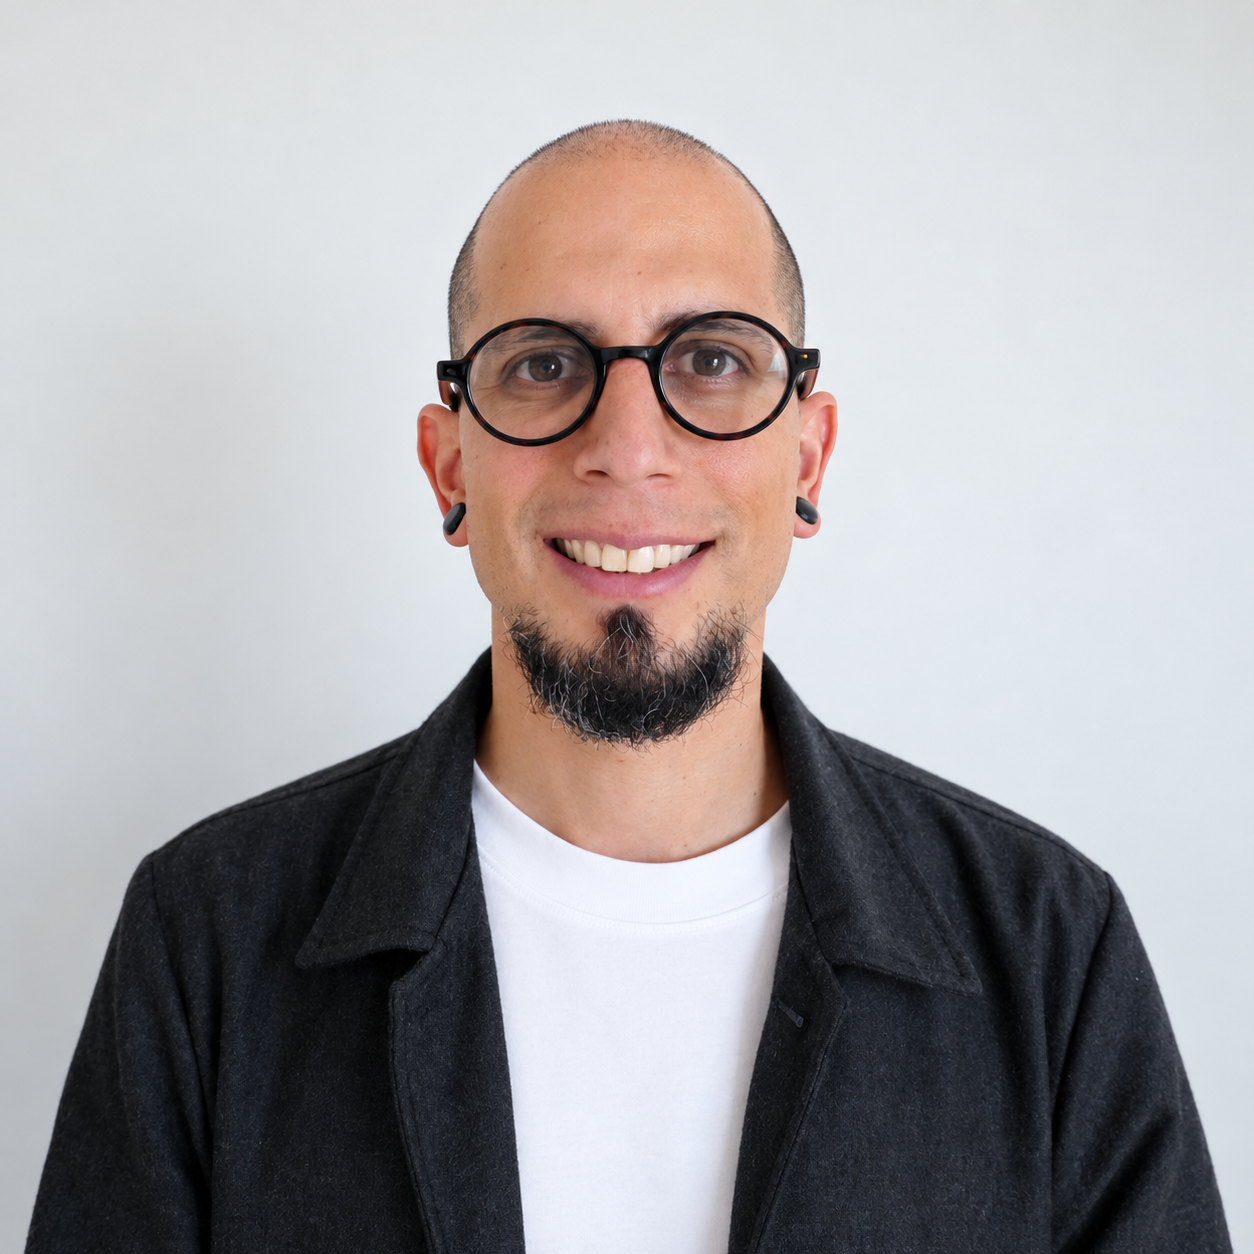
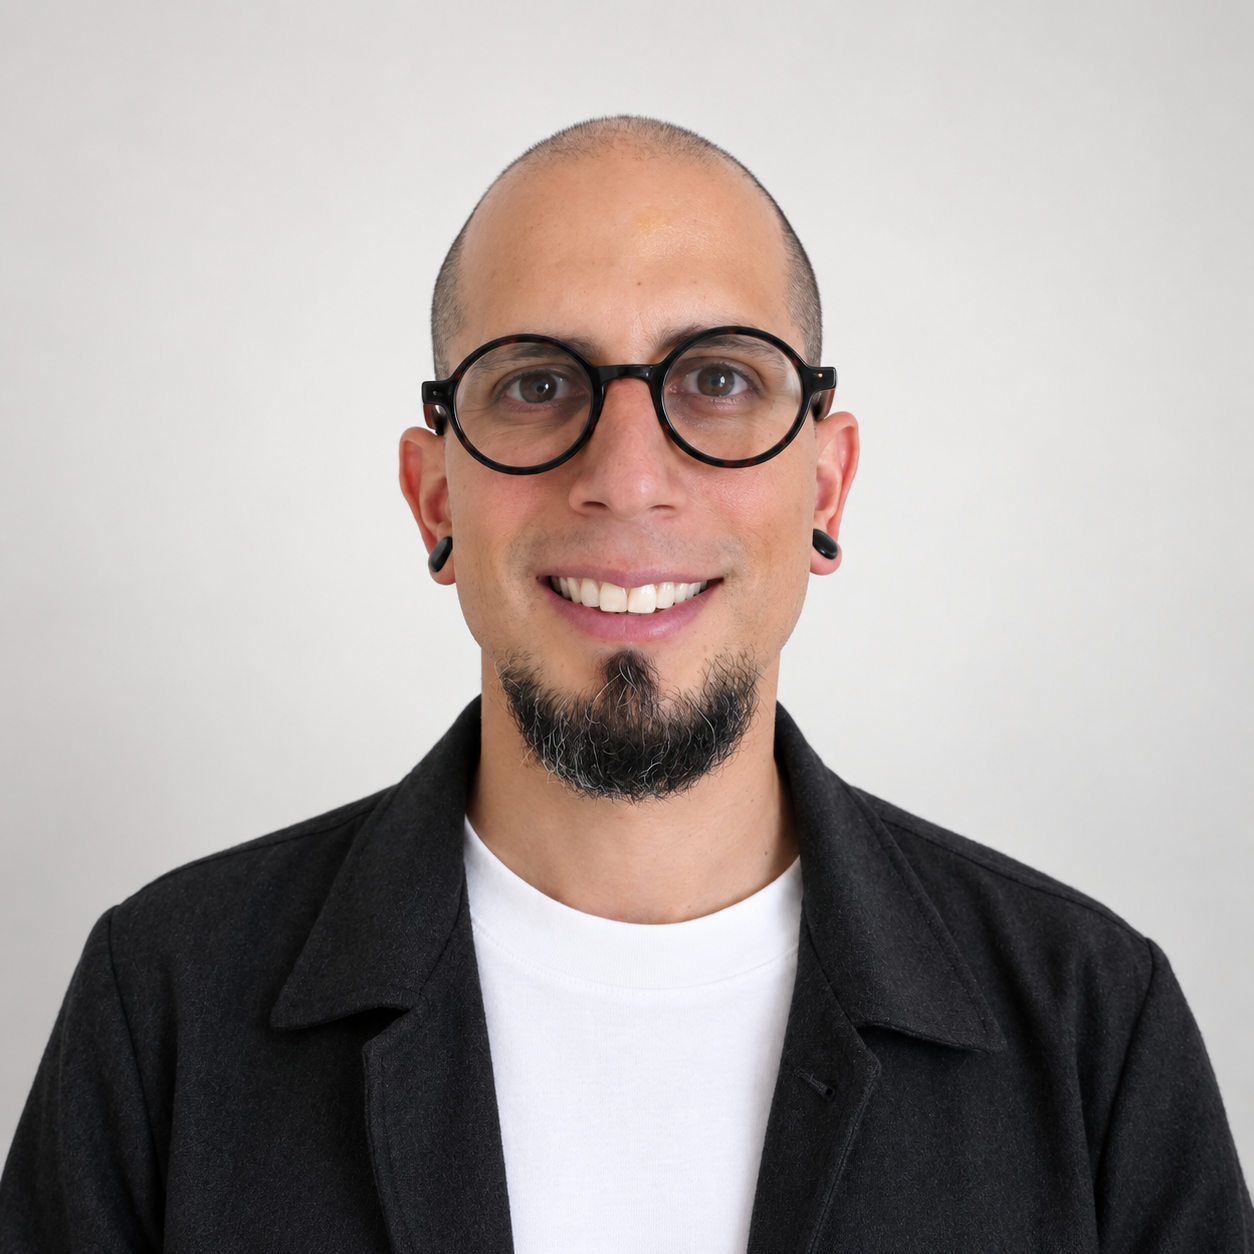
fix partial commit

diff --git a/layouts/_default/baseof.html b/layouts/_default/baseof.html
@@ -5,6 +5,7 @@
         <meta name=author content="{{ .Params.Author }}">
         <meta name="google-site-verification" content="2acTKqBrfBSXaKKpgEKGkM4bau9WaahA5kT3pJOUMk8" />
         <title>{{ block "title" . }}{{ if .IsHome }}{{ .Site.Title }}{{ else }}{{ .Title }} — {{ .Site.Home.Title }}{{ end }}{{ end }}</title>
+        <script src="/js/theme.js"></script>
         <link rel="stylesheet" href="/css/style.css">
         <!-- Enable responsiveness on mobile devices -->
         <meta name="viewport" content="width=device-width, initial-scale=1.0">
@@ -25,9 +26,21 @@
                     <li><a href="{{ .URL }}"{{ if eq $.RelPermalink .URL }} aria-current="page"{{ end }}>{{ .Name }}</a></li>
                     {{ end }}
                 </ul>
+                <div class="navigation-tools">
                 {{ range .Translations }}
                 <span id="language-switcher"><a href="{{ .RelPermalink }}" lang="{{ .Language.Lang }}" hreflang="{{ .Language.Lang }}" aria-label="{{ if eq .Language.Lang "de" }}Deutsch{{ else }}English{{ end }}">{{ upper .Language.Lang }}</a></span>
                 {{ end }}
+                <div id="theme-switcher" hidden>
+                    <button id="theme-toggle" type="button" aria-label="{{ i18n "theme" }}" title="{{ i18n "theme" }}" aria-controls="theme-options" aria-expanded="false">
+                        <svg width="1em" height="1em" viewBox="0 0 24 24" aria-hidden="true" focusable="false"><circle cx="12" cy="12" r="9" fill="none" stroke="currentColor" stroke-width="2"/><path d="M12 3a9 9 0 0 1 0 18Z" fill="currentColor"/></svg>
+                    </button>
+                </div>
+                </div>
+                <div id="theme-options" role="group" aria-label="{{ i18n "theme" }}" hidden>
+                    {{ range slice "system" "light" "dark" }}
+                    <button type="button" data-theme-choice="{{ . }}" aria-pressed="{{ if eq . "system" }}true{{ else }}false{{ end }}">{{ i18n (printf "theme-%s" .) }}</button>
+                    {{ end }}
+                </div>
             </div>
         </nav>
         {{ block "main" . }}

diff --git a/static/css/style.css b/static/css/style.css
@@ -88,7 +88,7 @@ header h1 {
 
 .navigation-inner {
     display: grid;
-    grid-template-columns: minmax(44px, 3em) minmax(0, 1fr) minmax(44px, 3em);
+    grid-template-columns: minmax(92px, 6em) minmax(0, 1fr) minmax(92px, 6em);
     column-gap: 0.5em;
     align-items: start;
     box-sizing: border-box;
@@ -179,7 +179,10 @@ header h1 {
     padding-block: 0.25rem;
 }
 
-#language-switcher {
+.navigation-tools {
+    display: flex;
+    align-items: center;
+    gap: 0.25rem;
     grid-column: 3;
     justify-self: end;
 }
@@ -335,13 +338,13 @@ p.logo-w {
 }
 
 @media (prefers-color-scheme: dark) {
-    .logo {
+    :root:not([data-theme]) .logo {
         display: none;
     }
 }
 
 @media (prefers-color-scheme: light) {
-    .logo-w {
+    :root:not([data-theme]) .logo-w {
         display: none;
     }
 }
@@ -419,7 +422,7 @@ footer p {
         justify-self: start;
     }
 
-    #language-switcher {
+    .navigation-tools {
         grid-column: 2;
         grid-row: 1;
     }
@@ -485,4 +488,47 @@ footer p {
     font-size: 0.9375rem;
     margin-top: 0.625rem;
     margin-left: 0.75rem;
+}
+
+:root[data-theme="light"] { color-scheme: light; }
+:root[data-theme="dark"] { color-scheme: dark; }
+:root[data-theme="dark"] .logo,
+:root[data-theme="light"] .logo-w { display: none; }
+
+#theme-toggle {
+    display: flex;
+    align-items: center;
+    justify-content: center;
+    width: 44px;
+    min-height: 44px;
+    padding: 0;
+    border: 0;
+    font: inherit;
+    color: white;
+    background: transparent;
+    cursor: pointer;
+}
+#theme-options {
+    grid-column: 1 / -1;
+    grid-row: 2;
+    display: flex;
+    flex-wrap: wrap;
+    justify-content: flex-end;
+    gap: 0.25rem;
+}
+#theme-options button {
+    min-height: 44px;
+    padding: 0.25rem 0.75rem;
+    border: 0;
+    font: inherit;
+    color: white;
+    background: transparent;
+    cursor: pointer;
+}
+#theme-options button[aria-pressed="true"],
+#theme-options button:hover {
+    text-decoration: underline;
+}
+@media all and (max-width: 48em) {
+    #theme-options { grid-row: 3; }
 }

diff --git a/layouts/partials/footer.html b/layouts/partials/footer.html
@@ -1,11 +1,11 @@
 {{ if eq $.Site.Language.LanguageName "English" }}
 <p>I am affiliated with the <a href="https://www.uni-koeln.de/">University of Cologne</a>.</p>
 
-<p><a href="https://www.uni-koeln.de/"><img src="/img/uni-koeln-logo-w-full.png" id="uni-koeln-logo" alt="University of Cologne's Logotype"></img></a></p>
+<p><a href="https://www.uni-koeln.de/"><img src="/img/uni-koeln-logo-w-full.png" id="uni-koeln-logo" alt="University of Cologne's Logotype"></a></p>
 
 <p>This website was built with <a href="https://gohugo.io/">Hugo</a>. View the <a href="https://git.sr.ht/~gjasso/gustavo.jasso.info">source code</a>.</p>
 
-<p>&copy; <script type="text/javascript">document. write( new Date(). getFullYear() );</script>&nbsp; Gustavo Jasso</p>
+<p>&copy; {{ now.Year }}&nbsp; Gustavo Jasso</p>
 
 <p>This website's content is the sole responsibility of its author.</p>
 
@@ -13,11 +13,11 @@
 {{ else }}
 <p>Ich bin an der <a href="https://www.uni-koeln.de/">Universität zu Köln</a> tätig.</p>
 
-<p><a href="https://www.uni-koeln.de/"><img src="/img/uni-koeln-logo-w-full-de.png" id="uni-koeln-logo" alt="Logo der Universität zu Köln"></img></a></p>
+<p><a href="https://www.uni-koeln.de/"><img src="/img/uni-koeln-logo-w-full-de.png" id="uni-koeln-logo" alt="Logo der Universität zu Köln"></a></p>
 
 <p>Diese Website wurde mit <a href="https://gohugo.io/">Hugo</a> entwickelt. Sehen Sie sich den <a href="https://github.com/gjassoah/gustavo.jasso.info">Quellcode</a> an.</p>
 
-<p>&copy; <script type="text/javascript">document. write( new Date(). getFullYear() );</script>&nbsp; Gustavo Jasso</p>
+<p>&copy; {{ now.Year }}&nbsp; Gustavo Jasso</p>
 
 <p>Für den Inhalt dieser Website ist allein der Autor verantwortlich.</p>
 

diff --git a/layouts/shortcodes/list-group-photos.html b/layouts/shortcodes/list-group-photos.html
@@ -1,6 +1,6 @@
 {{ range $i, $e := .Site.Data.groupphotos }}
 ### {{ .periodtext }}
-![](/img/photos/uzk/{{ .period }}-small.jpg)
+![{{ .names }}](/img/photos/uzk/{{ .period }}-small.jpg)
 {.groupphoto}
 [{{ .date }}] {{ .names }}
 {{ end }}

diff --git a/README.md b/README.md
@@ -105,10 +105,7 @@ Run the bibliography tests with:
 .venv/bin/python tools/test_bibliography.py
 ```
 
-The [GitHub Actions workflow](.github/workflows/hugo.yml) installs the build
-tools, runs these tests, builds the site and deploys it to GitHub Pages. It runs
-on pushes to `main` and can also be started manually. Local build and preview
-commands do not publish the site.
+Local build and preview commands do not publish the site.
 
 See [LICENSE.md](LICENSE.md) for the repository licence. The CSL files retain
 their own attribution and CC BY-SA 3.0 licence notices.
